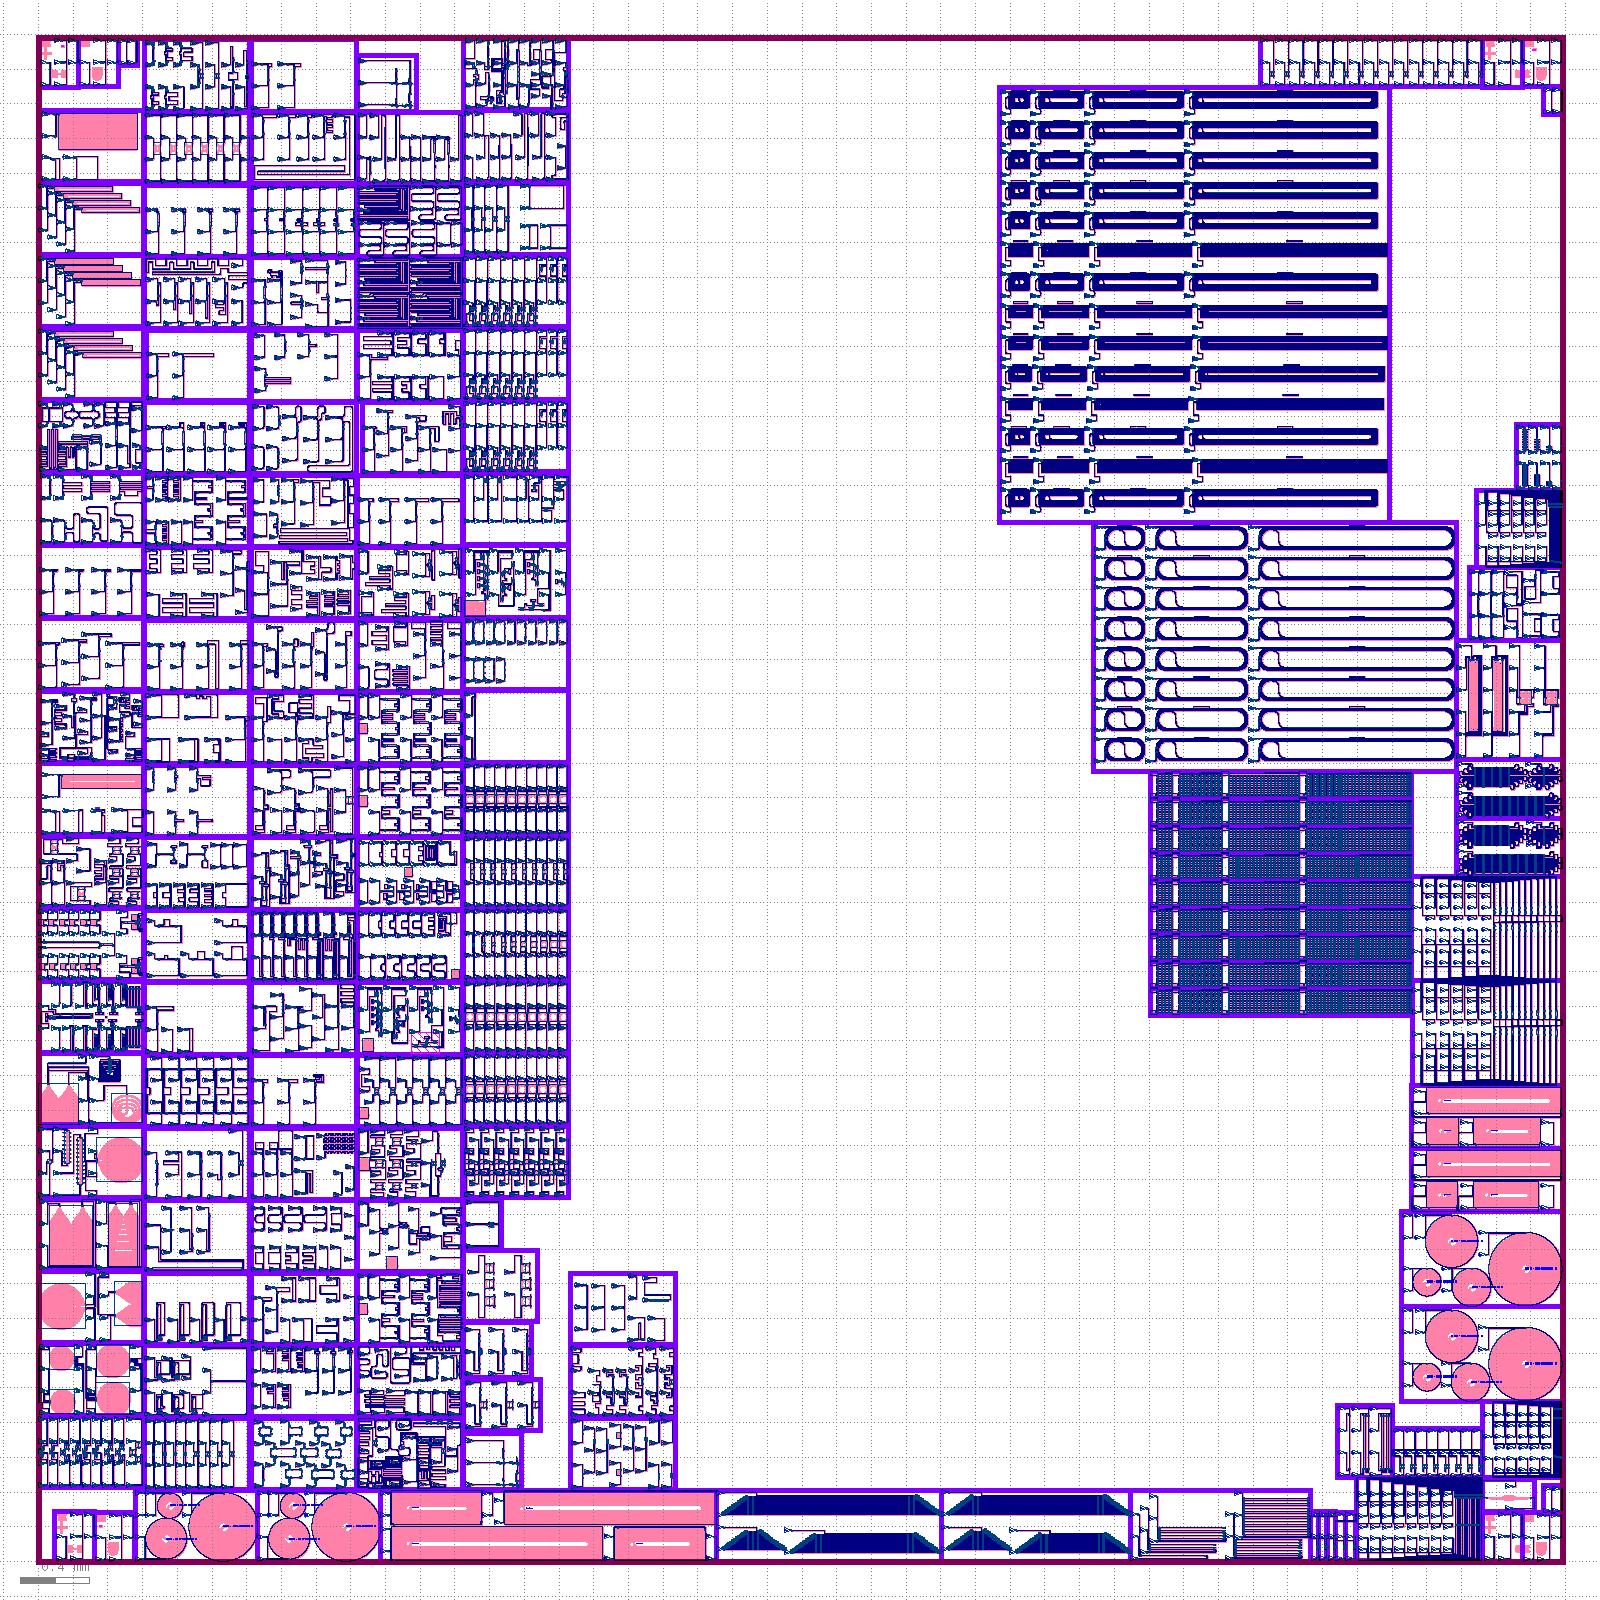
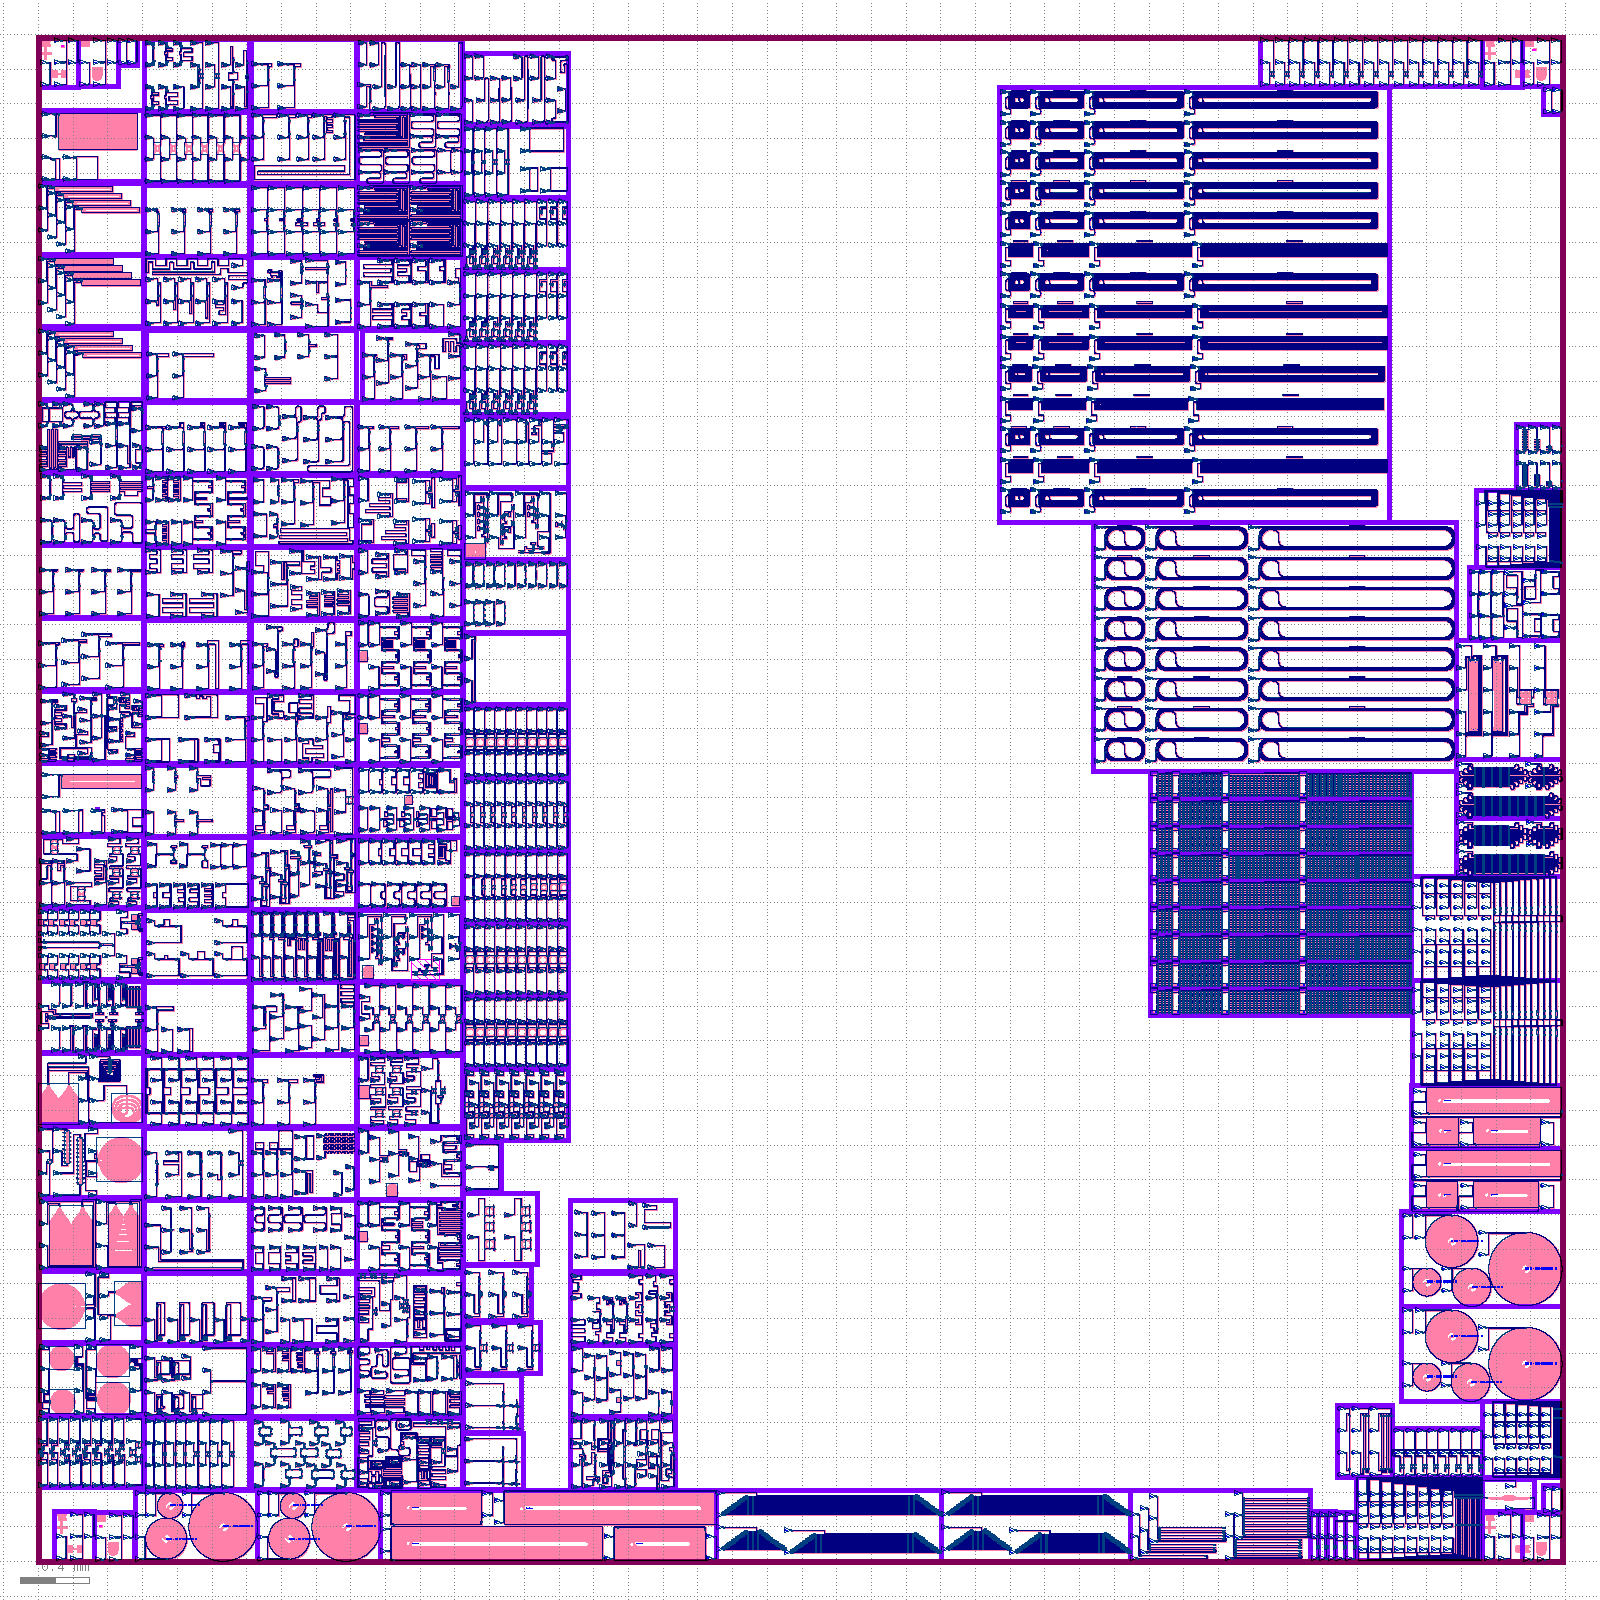
Aggregation layout: https://github.com/SiEPIC/openEBL-2026-05/actions/runs/25951509416/artifacts/7030085771

Changed region(s): [[0.2188, 0.0, 0.4375, 0.9375]]

diff --git a/README.md b/README.md
@@ -91,5 +91,5 @@ Will be added here.
 
 Click on the following link to download the EBeam.oas merged layout file:
 <!-- start-link -->
-https://github.com/SiEPIC/openEBL-2026-05/actions/runs/25951064023/artifacts/7029927895
+https://github.com/SiEPIC/openEBL-2026-05/actions/runs/25951509416/artifacts/7030085771
 <!-- end-link -->